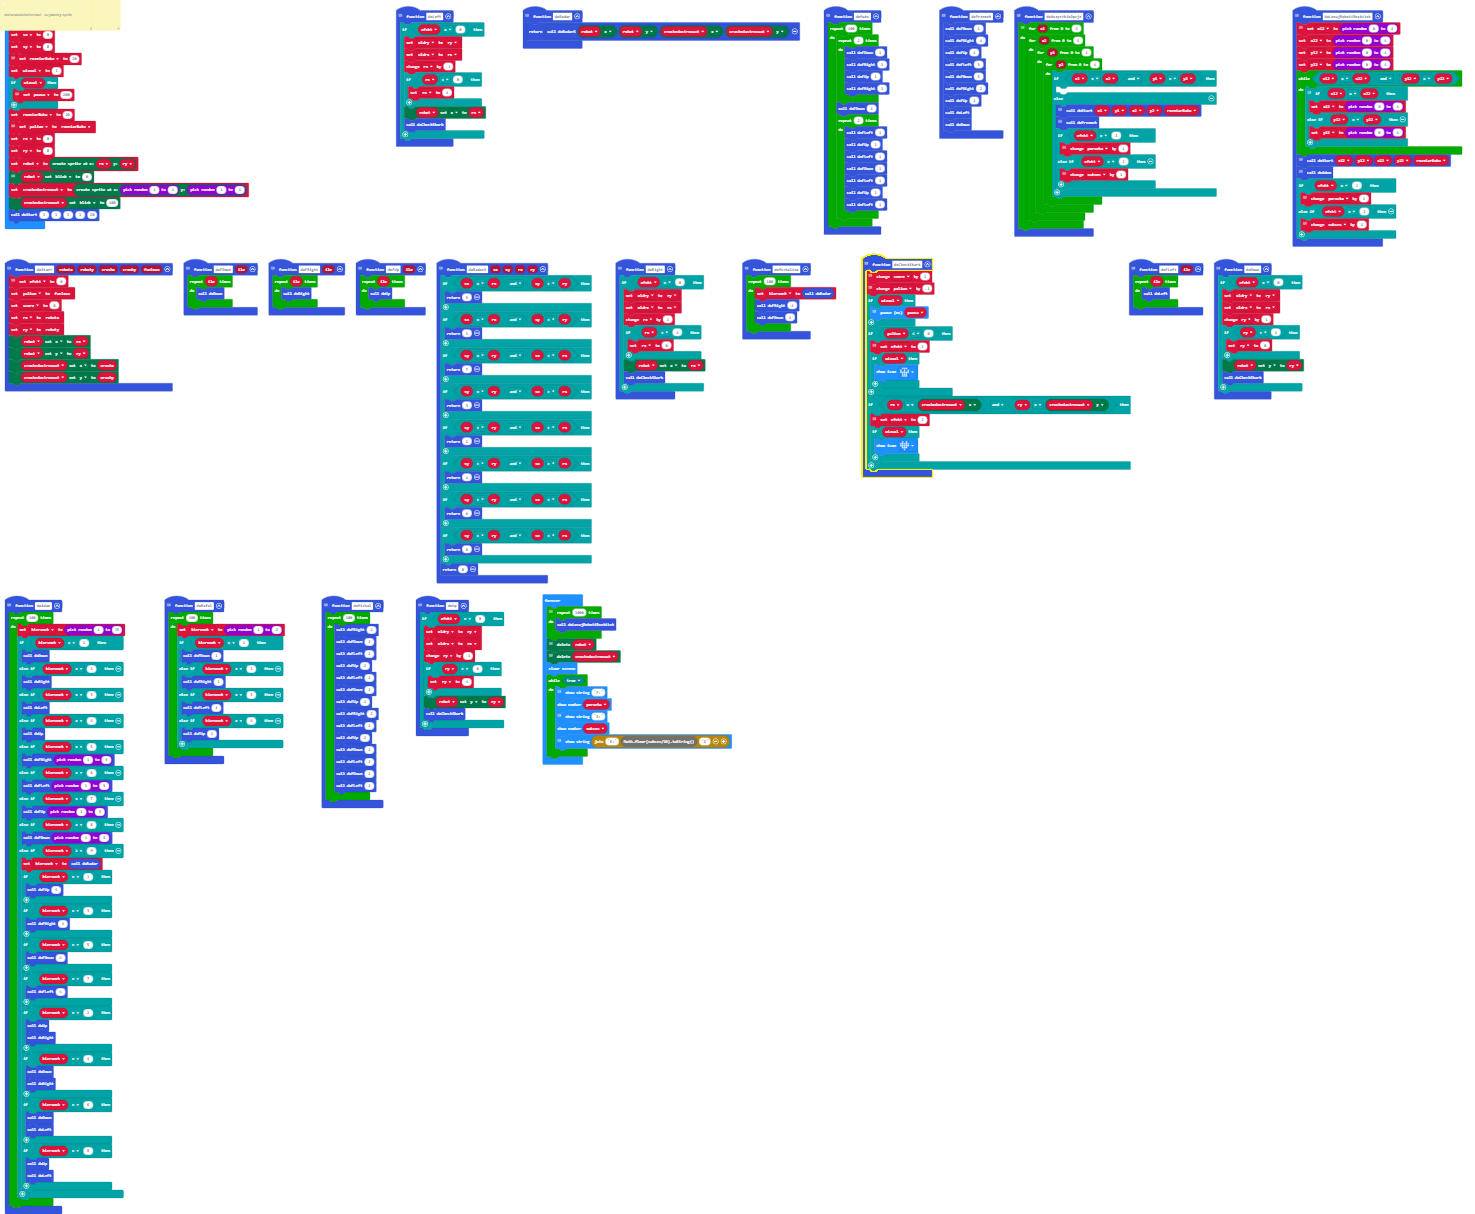
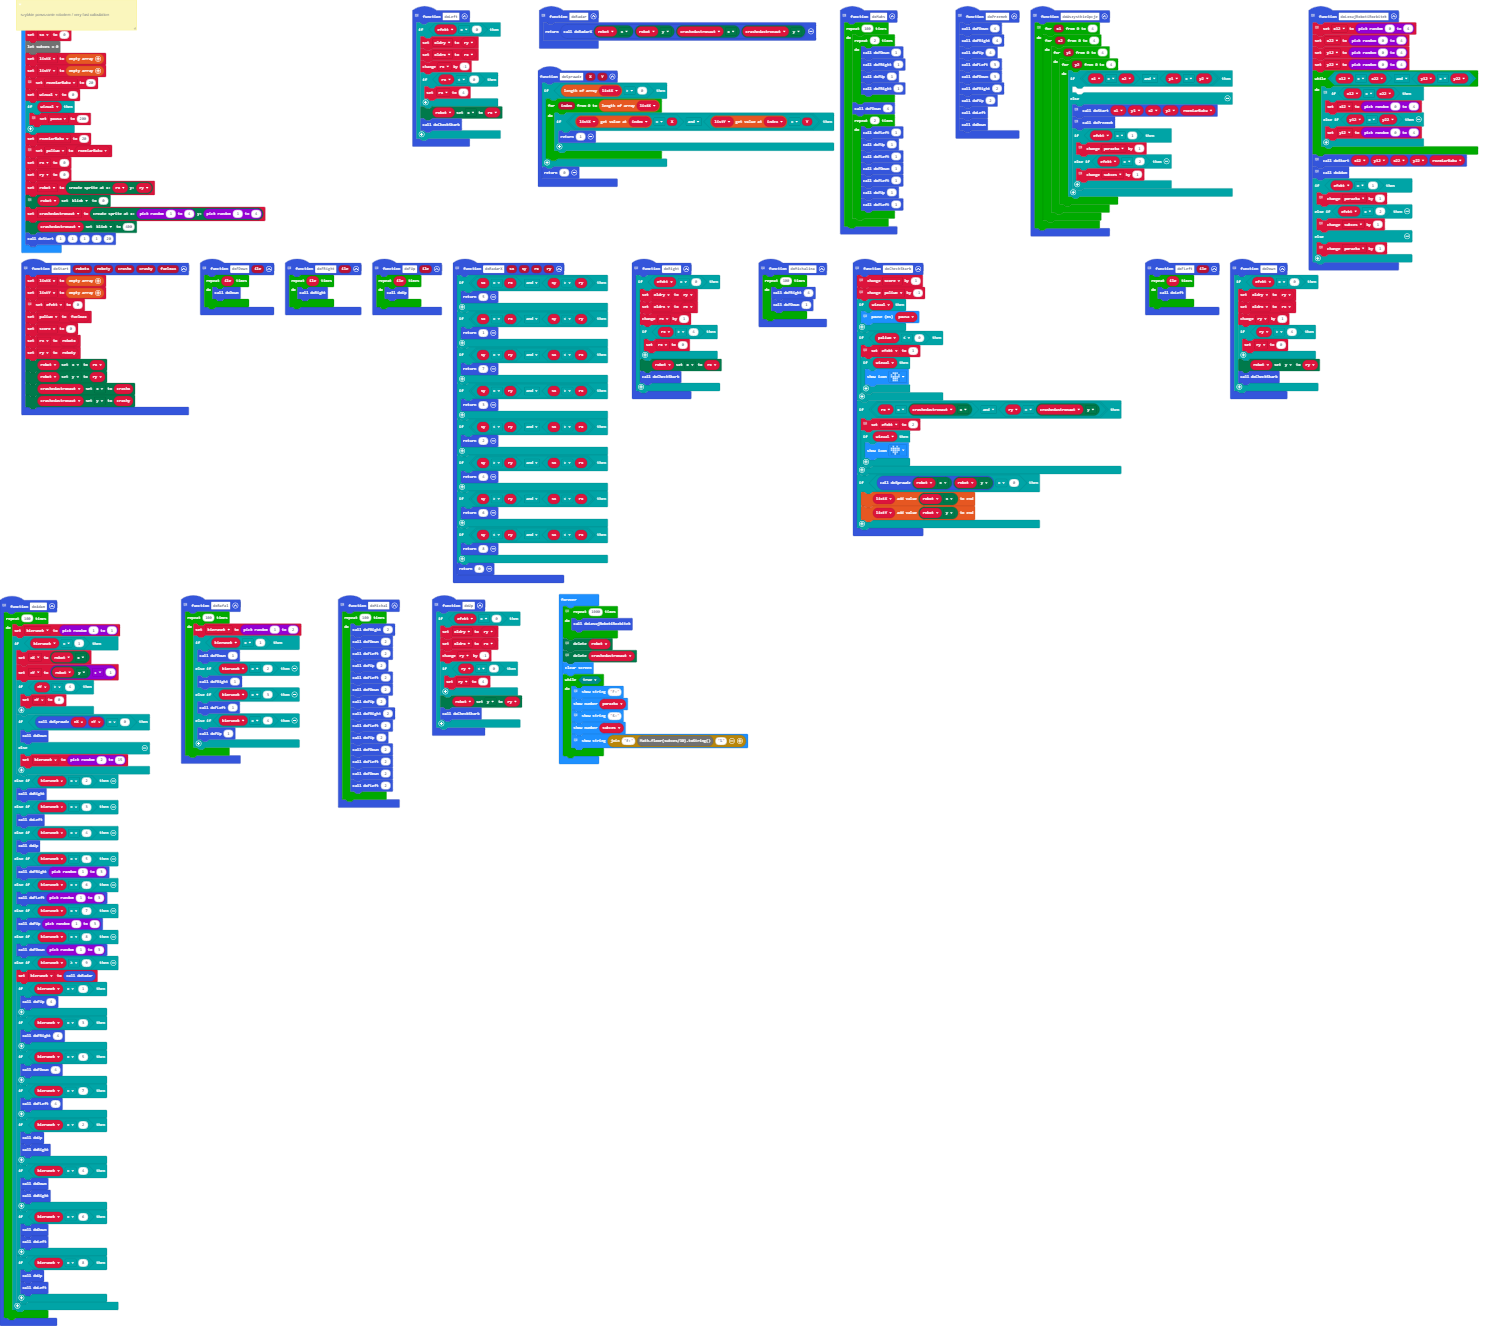
Dodana funkcja "sprawdz"

Changed region(s): [[0.0, 0.0, 0.998, 1.0]]

diff --git a/main.ts b/main.ts
@@ -1,6 +1,8 @@
 // Funkcja ustawia na odpowiednim miejscu robota i rozbitego astronautę oraz ile maksymalnie paliwa posiada robot
 // Function sets x,y coordinates of robot and crashed astronaut as well as max fuel available for robot
 function doStart (robotx: number, roboty: number, crashx: number, crashy: number, fuelmax: number) {
+    listX = []
+    listY = []
     // 0-Puste/robot run
     // 1-Brakło paliwa / empty fuel
     // 2-Wygrałeś / Winner
@@ -203,6 +205,20 @@ function doCheckSkarb () {
             basic.showIcon(IconNames.Heart)
         }
     }
+    if (doSprawdz(robot.get(LedSpriteProperty.X), robot.get(LedSpriteProperty.Y)) == 0) {
+        listX.push(robot.get(LedSpriteProperty.X))
+        listY.push(robot.get(LedSpriteProperty.Y))
+    }
+}
+function doSprawdz (X: number, Y: number) {
+    if (listX.length > 0) {
+        for (let index = 0; index <= listX.length; index++) {
+            if (listX[index] == X && listY[index] == Y) {
+                return 1
+            }
+        }
+    }
+    return 0
 }
 // Robot goes left for "ile" steps
 function doFLeft (ile: number) {
@@ -234,7 +250,16 @@ function doAdam () {
     for (let index = 0; index < 100; index++) {
         kierunek = randint(1, 15)
         if (kierunek == 1) {
-            doDown()
+            nX = robot.get(LedSpriteProperty.X)
+            nY = robot.get(LedSpriteProperty.Y) + 1
+            if (nY > 4) {
+                nY = 0
+            }
+            if (doSprawdz(nX, nY) == 0) {
+                doDown()
+            } else {
+                kierunek = randint(2, 15)
+            }
         } else if (kierunek == 2) {
             doRight()
         } else if (kierunek == 3) {
@@ -302,13 +327,16 @@ function doLosujRobotiRozbitek () {
     doStart(x12, y12, x22, y22, rozmiarBaku)
     // tutaj wstawiamy naszą funkcję sterującą robotem
     // place here robot steering function
-    doMichalina()
+    doAdam()
     if (efekt == 1) {
         // jesli braklo paliwa / emptu fuel
         porazka += 1
     } else if (efekt == 2) {
         // uratowany! / astronaut found!
         sukces += 1
+    } else {
+        // jesli braklo paliwa / emptu fuel
+        porazka += 1
     }
 }
 // Rafal - losowo ale pojedynczo
@@ -372,21 +400,23 @@ function doUp () {
     }
 }
 /**
- * wizual=0 do wielokrotnych symulacji, wizual=1 porusza wolniej robotem i prezentuje wyniki
- */
-/**
- * szybkie poruszanie robotem / very fast calculation
- */
-/**
  * robot - uzywamy sprite
  */
 /**
  * astrunauta/astronaut - uzywamy sprite
  */
+/**
+ * wizual=0 do wielokrotnych symulacji, wizual=1 porusza wolniej robotem i prezentuje wyniki
+ */
+/**
+ * szybkie poruszanie robotem / very fast calculation
+ */
 let y22 = 0
 let y12 = 0
 let x22 = 0
 let x12 = 0
+let nY = 0
+let nX = 0
 let kierunek = 0
 let oldrx = 0
 let oldry = 0
@@ -401,9 +431,13 @@ let paliwo = 0
 let pausa = 0
 let wizual = 0
 let rozmiarBaku = 0
-let sukces = 0
-let sx = 0
+let listY: number[] = []
+let listX: number[] = []
 let sy = 0
+let sx = 0
+let sukces = 0
+listX = []
+listY = []
 // tutaj ustaw pojemność baku robota / here put fuel max volume
 rozmiarBaku = 20
 wizual = 0
